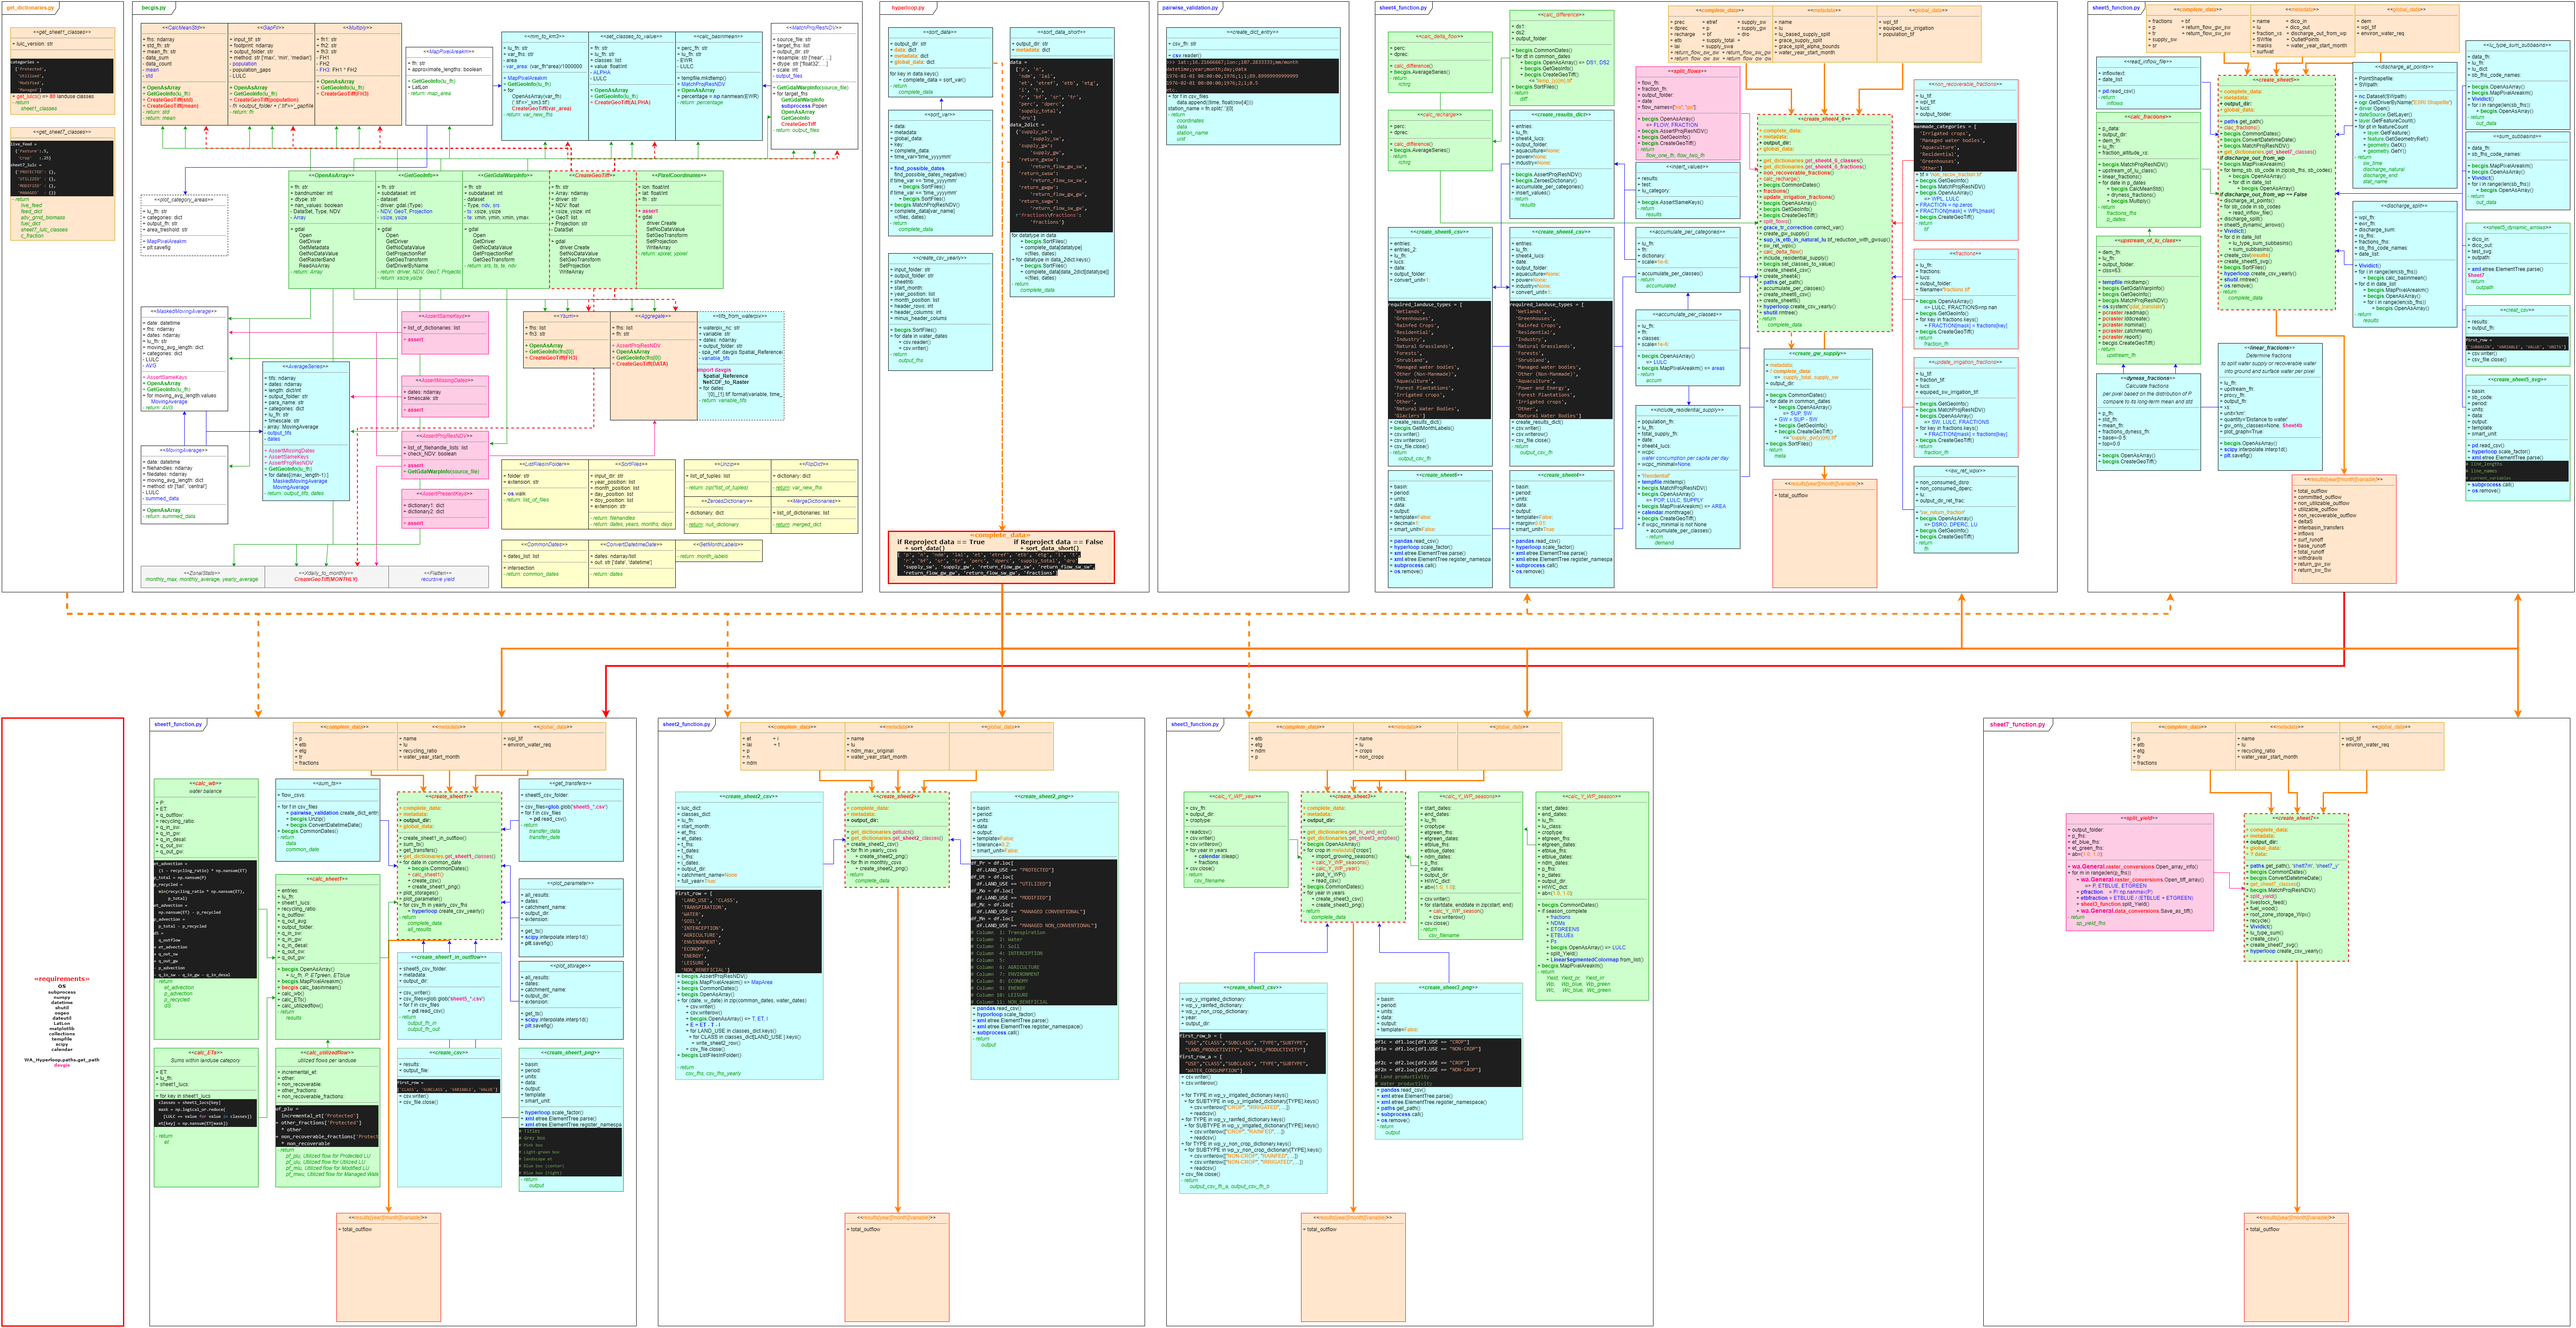
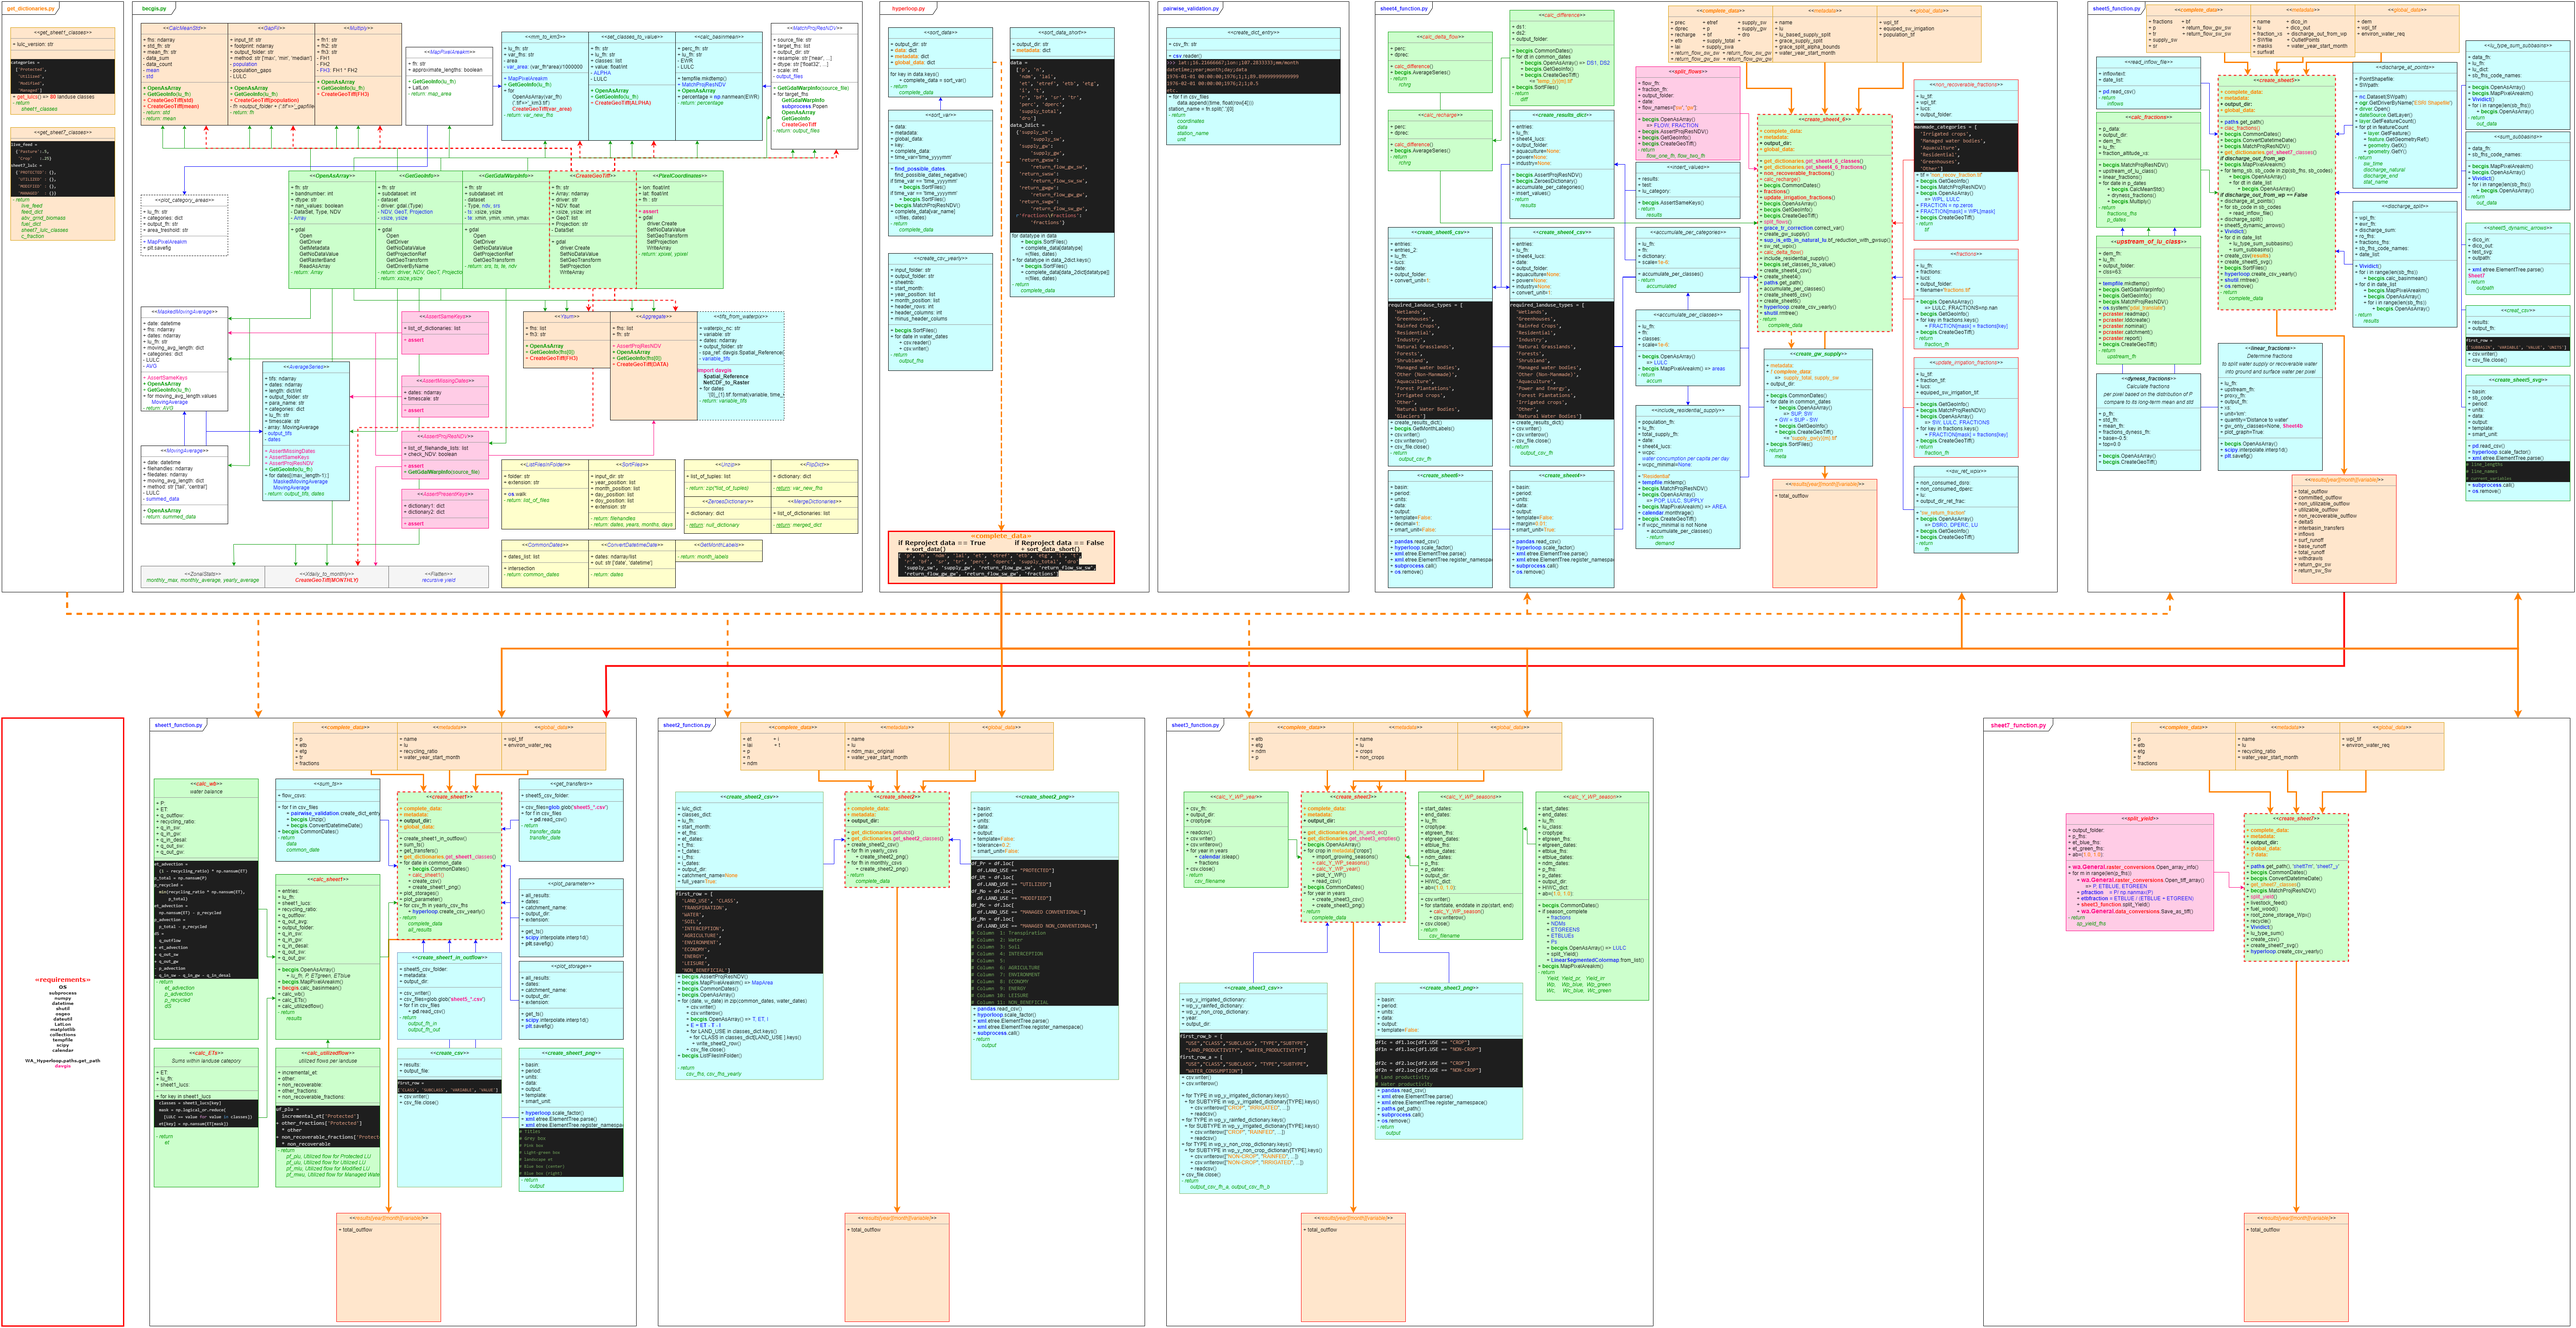
Update variable standard name and long name convenstion

diff --git a/Engine/Data.md b/Engine/Data.md
@@ -192,7 +192,7 @@ Parameter, csv data
 | **1D, Parameter**                                                                                                        |
 | `dico_in`                          | subbasin in or outflow point |        |                     sh5I            | metadata |
 | `dico_out`                         | subbasin in or outflow point |        |                     sh5I            | metadata |
-| `fraction_xs`                      | Fraction                     |        |                     sh5I            | metadata |
+| `fraction_xs`                      | Fraction Altitude XS         |        |                     sh5I            | metadata |
 | **1D, Calendar**                                                                                                         |
 | Crops, Sheet 3, metadata                                                                                                 |
 | `rice-rainfed`                     | Crops Cereals                |        |                                     |       |
@@ -321,8 +321,8 @@ _Variable Name, Input/Output, Map_
 |                                    | ` `                                | `Recovable_Flow_Surface_Water`     |                                    | Recovable Flow Surface Water     |        |                sh4O                 | `recov_sw_tif`, `RECOVERABLE_SURFACEWATER` |
 |                                    | ` `                                | `Recovable_Flow_Ground_Water`      |                                    | Recovable Flow Ground Water      |        |                sh4O                 | `recov_gw_tif`, `RECOVERABLE_GROUNDWATER` |
 |                                    | ` `                                | `Recovable_Flow`                   |                                    | Recovable Flow                   |        |                sh4O                 | `recov_tif` |
-|                                    | `return_flow_sw_sw`                |                                    |                                    |                                  |        |                          sh6O       | complete_data, `return_flow_sw_sw_tif` |
-|                                    | `return_flow_sw_gw`                |                                    |                                    |                                  |        |                     sh5I sh6O       | complete_data, `return_flow_sw_gw_tif` |
+|                                    | `return_flow_sw_sw`                |                                    |                                    |                                  |        |                     sh5I sh6O       | complete_data, `return_flow_sw_sw_tif` |
+|                                    | `return_flow_sw_gw`                |                                    |                                    |                                  |        |                          sh6O       | complete_data, `return_flow_sw_gw_tif` |
 |                                    | `return_flow_gw_sw`                |                                    |                                    |                                  |        |                     sh5I sh6O       | complete_data, `return_flow_gw_sw_tif` |
 |                                    | `return_flow_gw_gw`                |                                    |                                    |                                  |        |                          sh6O       | complete_data, `return_flow_gw_gw_tif` |
 |                                    | `withdrawls`                       | `Surface_Withdrawal`               |                                    | Surface Withdrawal               |        |                     sh5O            |       |
